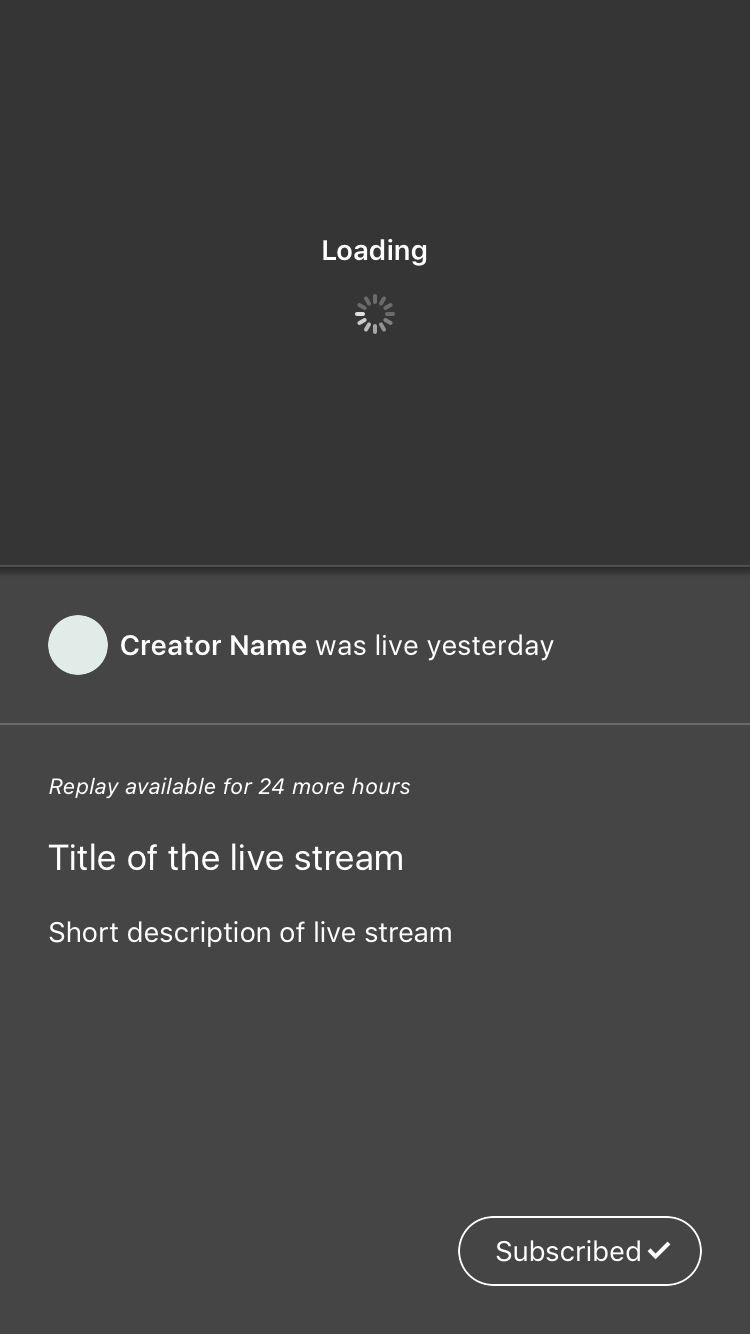
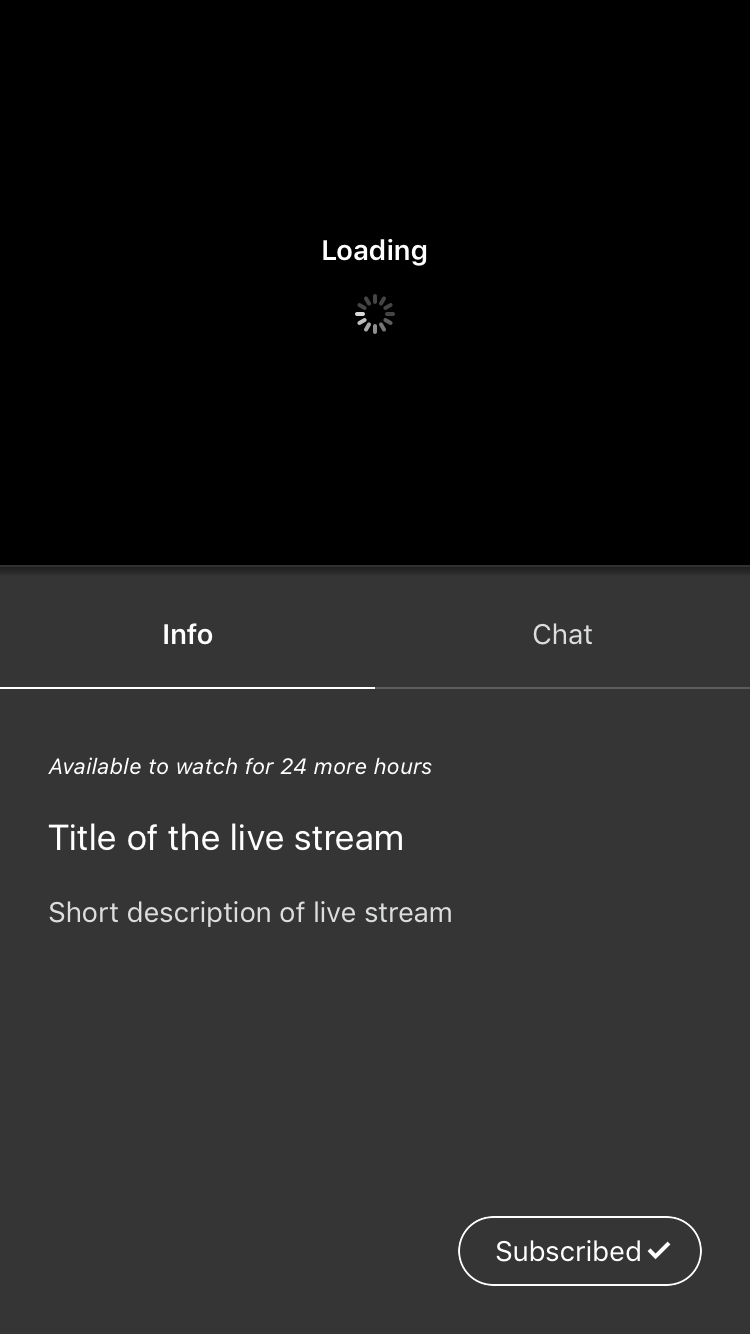
Fix subscribed screenshots

diff --git a/Kickstarter-iOS/Tests/Views/LiveStreamContainerViewControllerTests.swift b/Kickstarter-iOS/Tests/Views/LiveStreamContainerViewControllerTests.swift
@@ -18,32 +18,6 @@ internal final class LiveStreamContainerViewControllerTests: TestCase {
     UIView.setAnimationsEnabled(true)
     super.tearDown()
   }
-//  func testSubscribed() {
-//    let liveStreamEvent = .template
-//      |> LiveStreamEvent.lens.hasReplay .~ true
-//      |> LiveStreamEvent.lens.user .~ LiveStreamEvent.User(isSubscribed: true)
-//      |> LiveStreamEvent.lens.liveNow .~ false
-//      |> LiveStreamEvent.lens.startDate .~ (MockDate().addingTimeInterval(-86_400)).date
-//      |> LiveStreamEvent.lens.replayUrl .~ "http://www.replay.com"
-//      |> LiveStreamEvent.lens.name .~ "Title of the live stream"
-//      |> LiveStreamEvent.lens.description .~ "Short description of live stream"
-//
-//    let liveStreamService = MockLiveStreamService(fetchEventResult: Result(liveStreamEvent))
-//
-//    withEnvironment(liveStreamService: liveStreamService) {
-//      let vc = LiveStreamContainerViewController.configuredWith(project: .template,
-//                                                                liveStreamEvent: liveStreamEvent,
-//                                                                refTag: .projectPage,
-//                                                                presentedFromProject: true)
-//
-//      let (parent, _) = traitControllers(device: .phone4_7inch, orientation: .portrait, child: vc)
-//      self.scheduler.advance()
-//
-//      vc.liveStreamViewControllerNumberOfPeopleWatchingChanged(controller: nil, numberOfPeople: 2_532)
-//
-//      FBSnapshotVerifyView(parent.view)
-//    }
-//  }
 
   func testReplay() {
     let liveStreamEvent = .template
@@ -204,4 +178,28 @@ internal final class LiveStreamContainerViewControllerTests: TestCase {
     }
   }
 
+  func testSubscribed() {
+    let liveStreamEvent = .template
+      |> LiveStreamEvent.lens.hasReplay .~ true
+      |> LiveStreamEvent.lens.user .~ LiveStreamEvent.User(isSubscribed: true)
+      |> LiveStreamEvent.lens.liveNow .~ false
+      |> LiveStreamEvent.lens.startDate .~ (MockDate().addingTimeInterval(-86_400)).date
+      |> LiveStreamEvent.lens.replayUrl .~ "http://www.replay.com"
+      |> LiveStreamEvent.lens.name .~ "Title of the live stream"
+      |> LiveStreamEvent.lens.description .~ "Short description of live stream"
+
+    let liveStreamService = MockLiveStreamService(fetchEventResult: Result(liveStreamEvent))
+
+    withEnvironment(liveStreamService: liveStreamService) {
+      let vc = LiveStreamContainerViewController.configuredWith(project: .template,
+                                                                liveStreamEvent: liveStreamEvent,
+                                                                refTag: .projectPage,
+                                                                presentedFromProject: true)
+
+      let (parent, _) = traitControllers(device: .phone4_7inch, orientation: .portrait, child: vc)
+      self.scheduler.advance()
+
+      FBSnapshotVerifyView(parent.view)
+    }
+  }
 }
